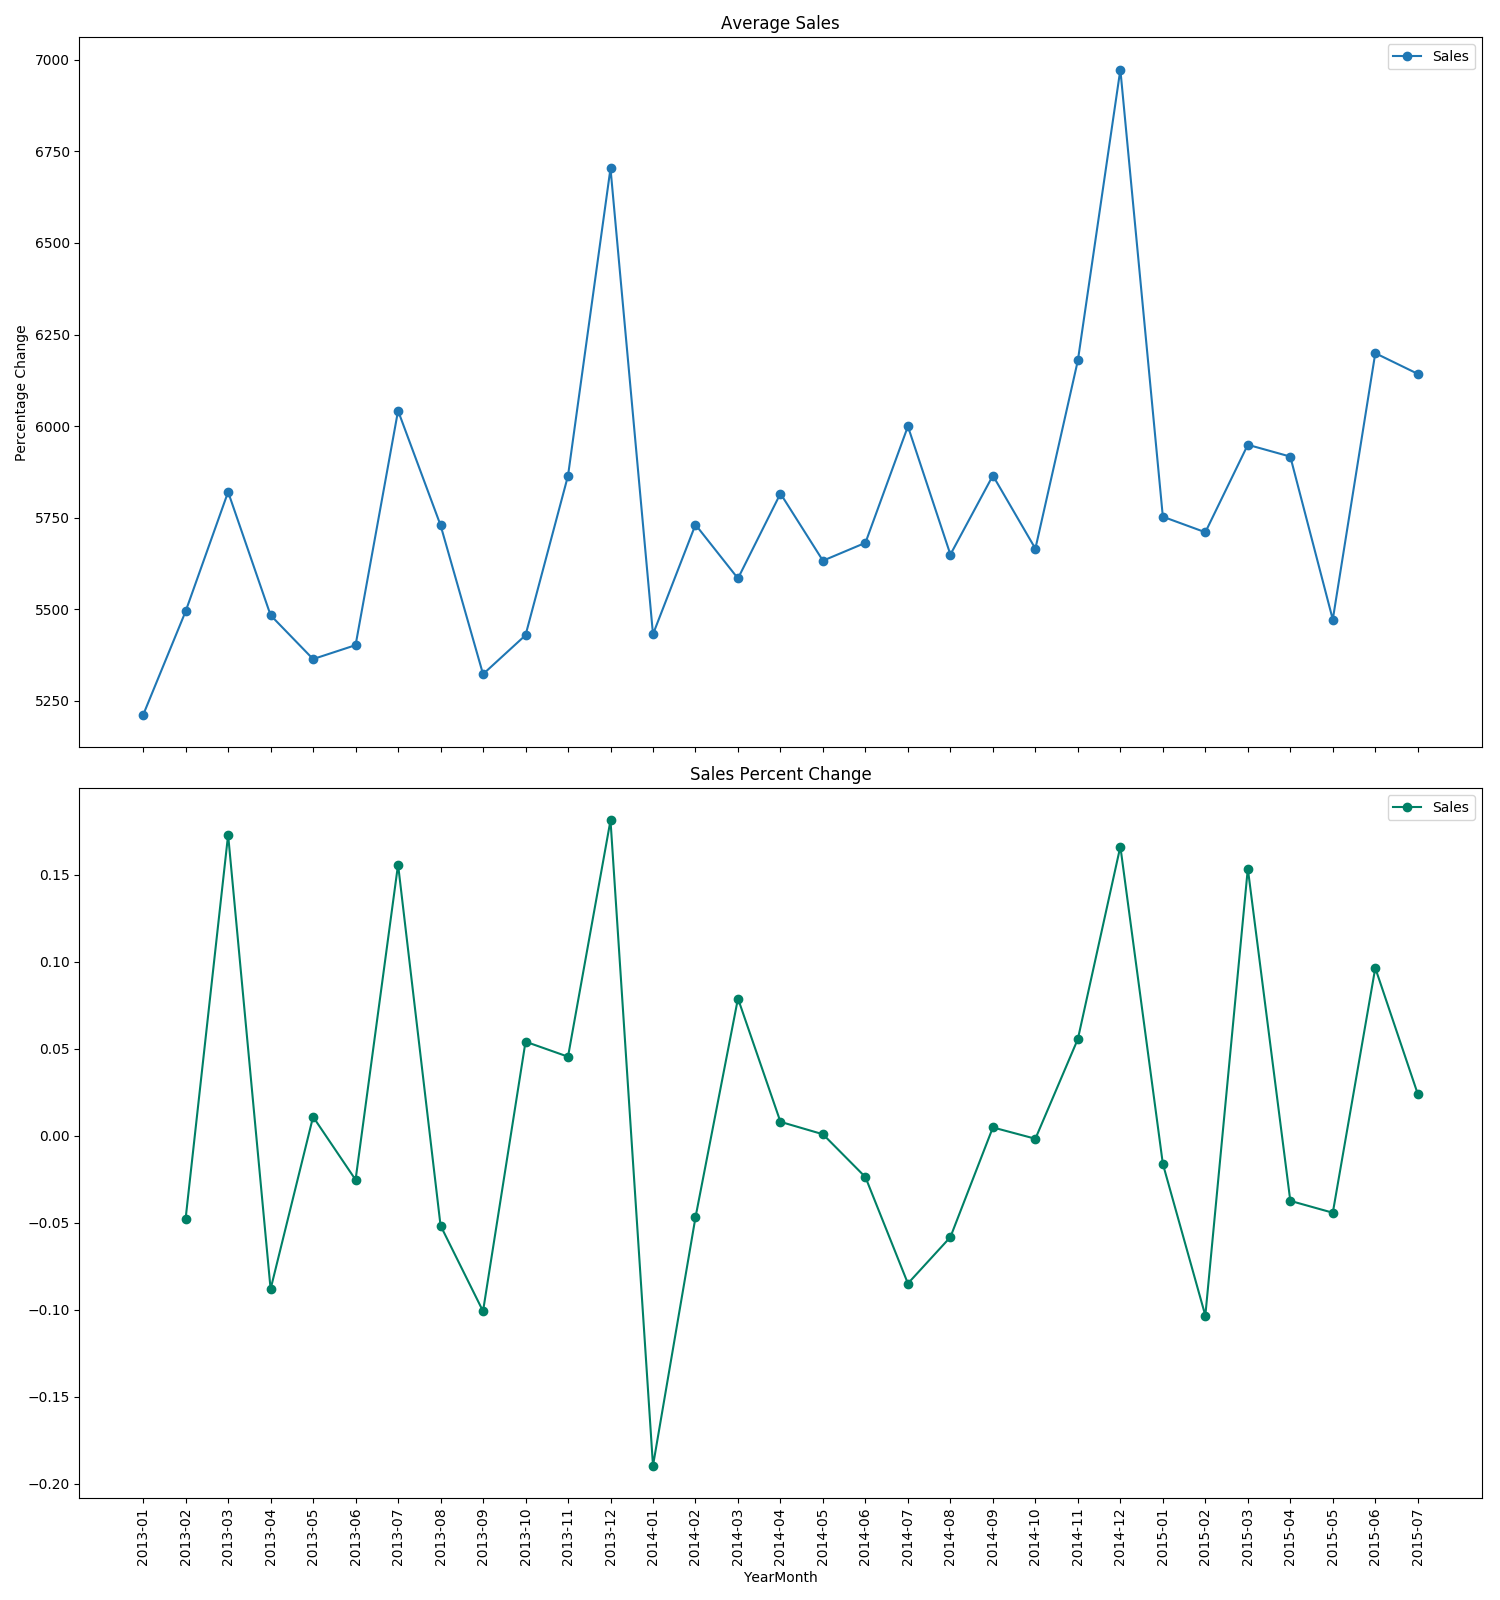
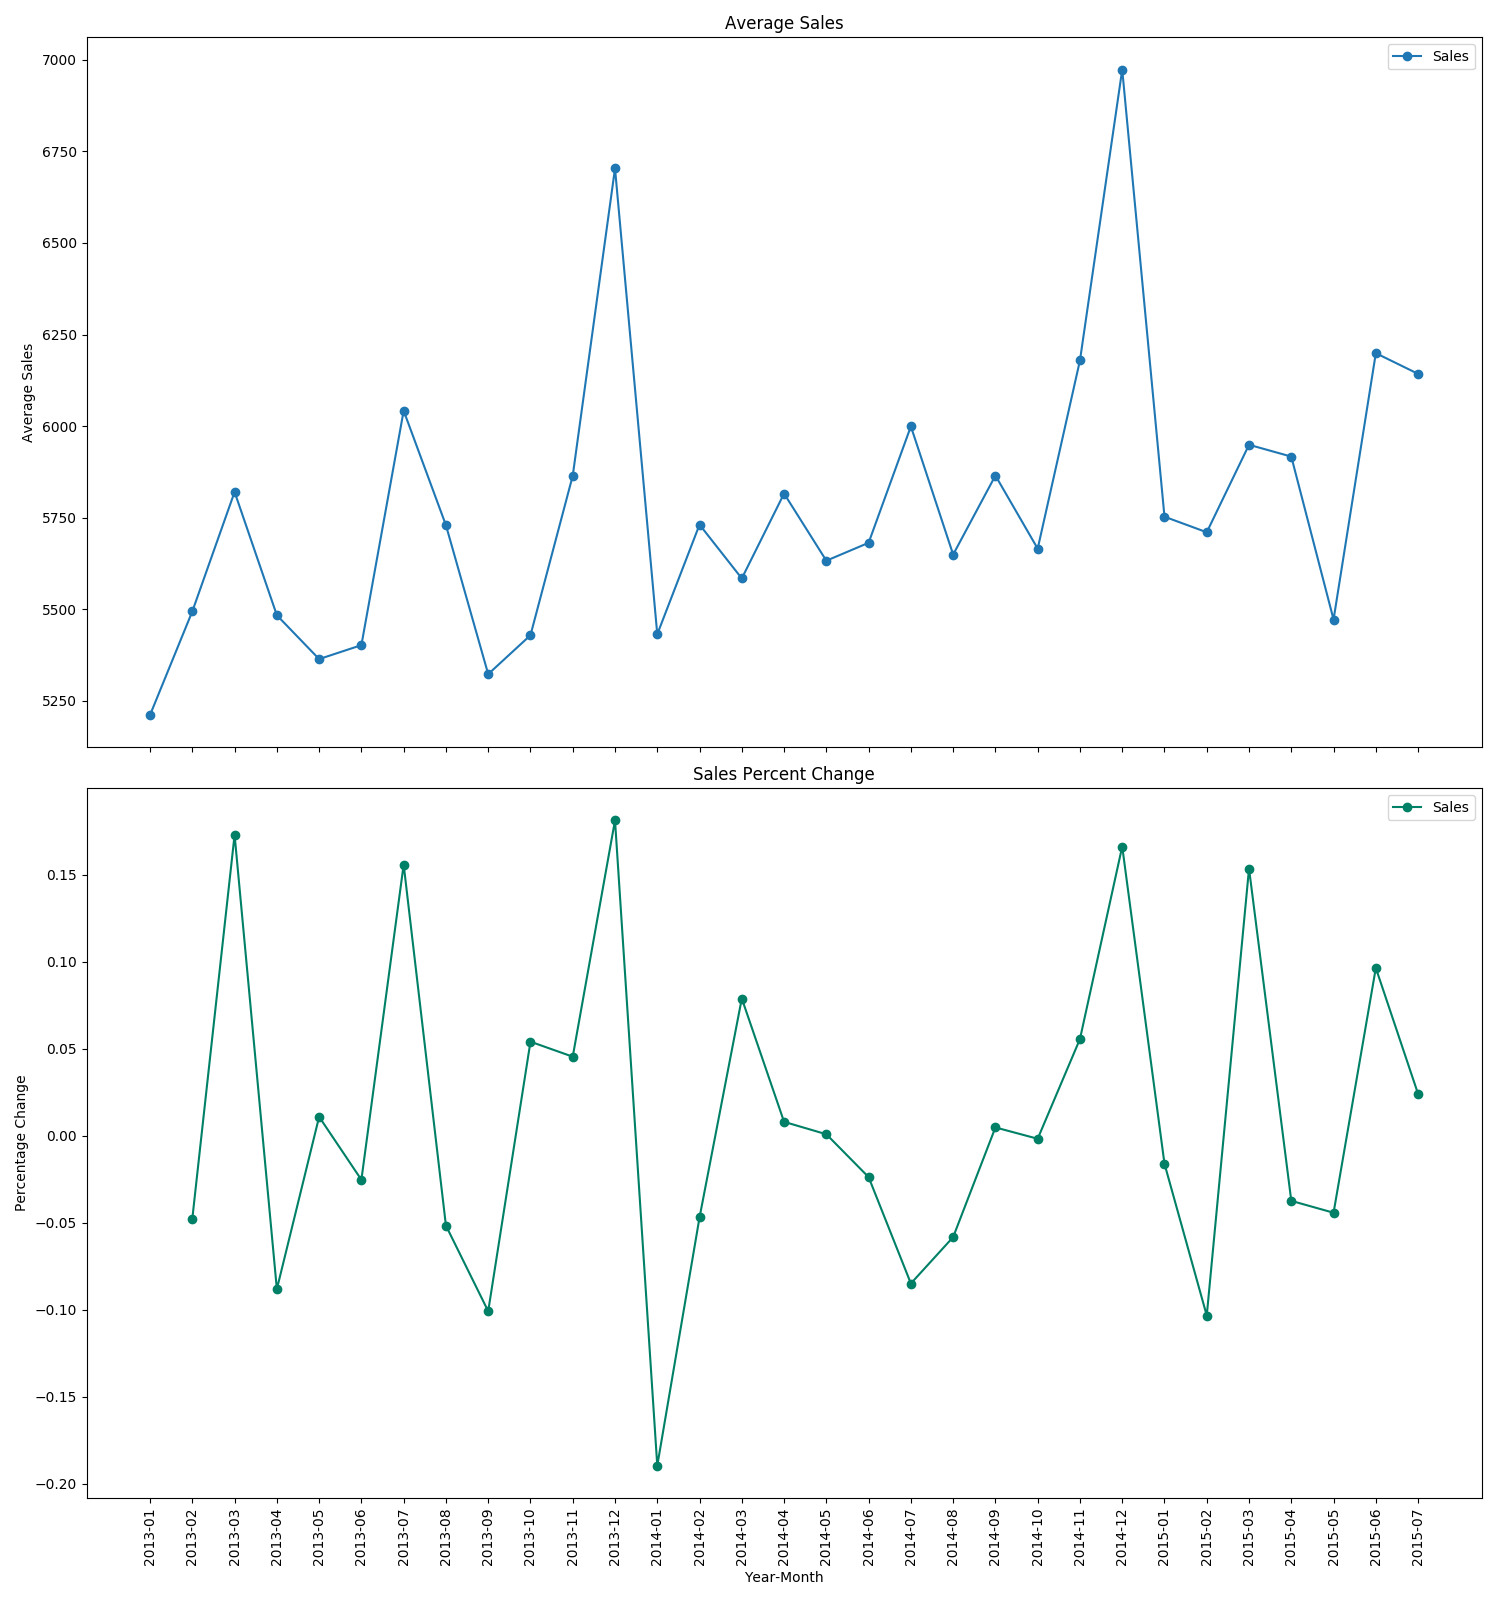
Updated Plots

diff --git a/generate_plots.py b/generate_plots.py
@@ -112,9 +112,9 @@ fig, (axis1, axis2) = plt.subplots(2, 1, sharex=True, figsize=(15, 16))
 ax1 = average_sales.plot(legend=True, ax=axis1, marker="o", title="Average Sales")
 ax1.set_xticks(range(len(average_sales)))
 ax1.set_xticklabels(average_sales.index.tolist(), rotation=90)
-ax1.set(ylabel="Sales")
+ax1.set(ylabel="Average Sales")
 ax2 = pct_change_sales.plot(legend=True, ax=axis2, marker="o", rot=90, colormap="summer", title="Sales Percent Change")
-ax1.set(xlabel="Year-Month", ylabel="Percentage Change")
+ax2.set(xlabel="Year-Month", ylabel="Percentage Change")
 fig.tight_layout()
 fig.savefig("plots/Avg. Sales & Percentage Change (by Year-Month).png", dpi=fig.dpi)
 fig.clf()
@@ -548,7 +548,7 @@ training_df = pd.get_dummies(training_df, columns=["DayOfWeek", "StateHoliday"])
 # Generate correlation matrix for training_df
 corr = training_df.corr()
 fig, (axis1) = plt.subplots(figsize=(15, 15))
-sns.heatmap(corr, square=True, ax=axis1)
+sns.heatmap(corr, square=True, ax=axis1, linewidths=.5, cmap=plt.cm.coolwarm)
 plt.yticks(rotation=0)
 plt.xticks(rotation=90)
 fig.tight_layout()
@@ -569,7 +569,8 @@ store_piv = pd.pivot_table(training_df, values="Sales", index="YearMonth", colum
 start_store = 1
 end_store = 1115
 fig, (axis1) = plt.subplots(1, 1, figsize=(100, 100))
-sns.heatmap(store_piv[list(range(start_store, end_store + 1))].corr(), square=True, ax=axis1)
+sns.heatmap(store_piv[list(range(start_store, end_store + 1))].corr(), square=True,
+            ax=axis1, linewidths=.5, cmap=plt.cm.coolwarm)
 fig.tight_layout()
 fig.savefig("plots/Correlation Matrix (All Stores).png")
 fig.clf()
@@ -580,7 +581,8 @@ print("Plotted Correlation Matrix (All Stores)")
 start_store = 1
 end_store = 100
 fig, (axis1) = plt.subplots(1, 1, figsize=(100, 100))
-sns.heatmap(store_piv[list(range(start_store, end_store + 1))].corr(), square=True, ax=axis1)
+sns.heatmap(store_piv[list(range(start_store, end_store + 1))].corr(), square=True,
+            ax=axis1, linewidths=.5, cmap=plt.cm.coolwarm)
 fig.tight_layout()
 fig.savefig("plots/Correlation Matrix (Stores 1 - 100).png")
 fig.clf()
